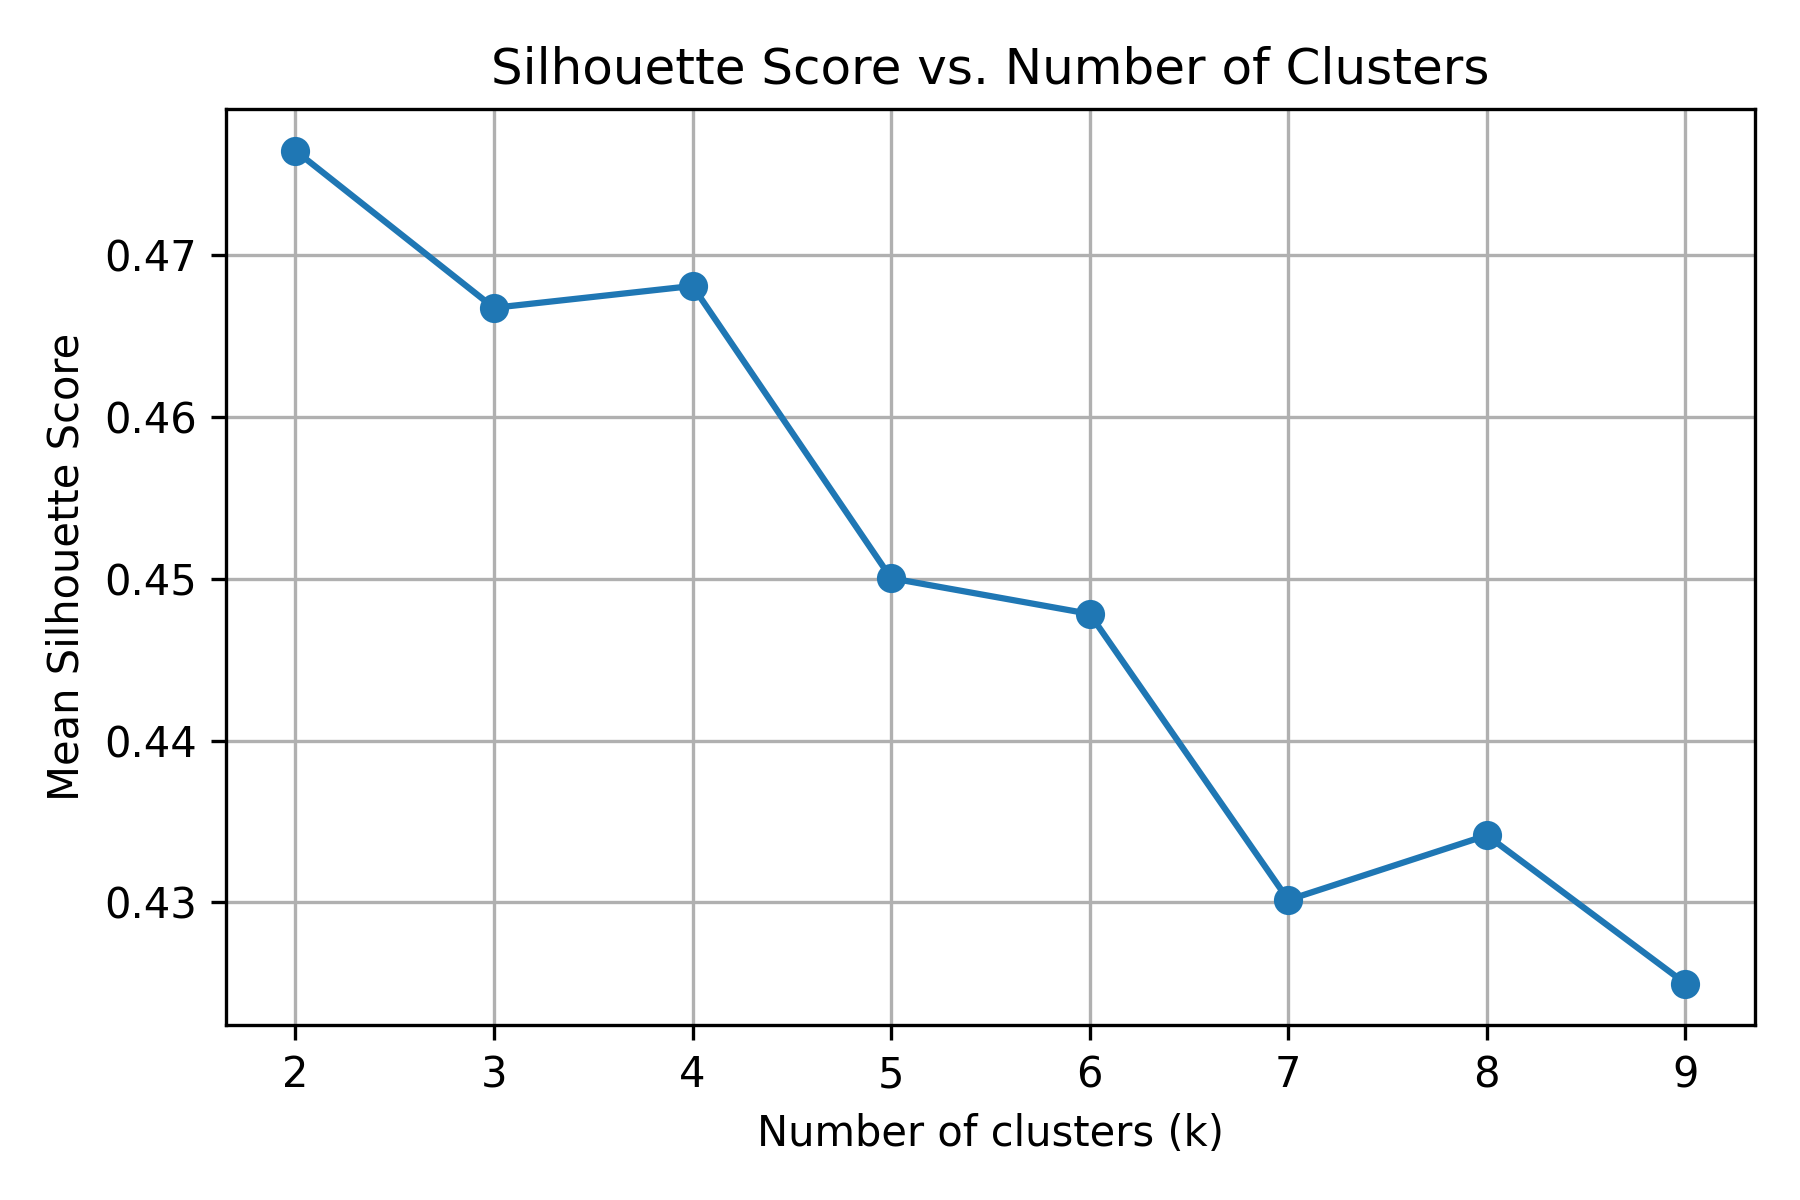
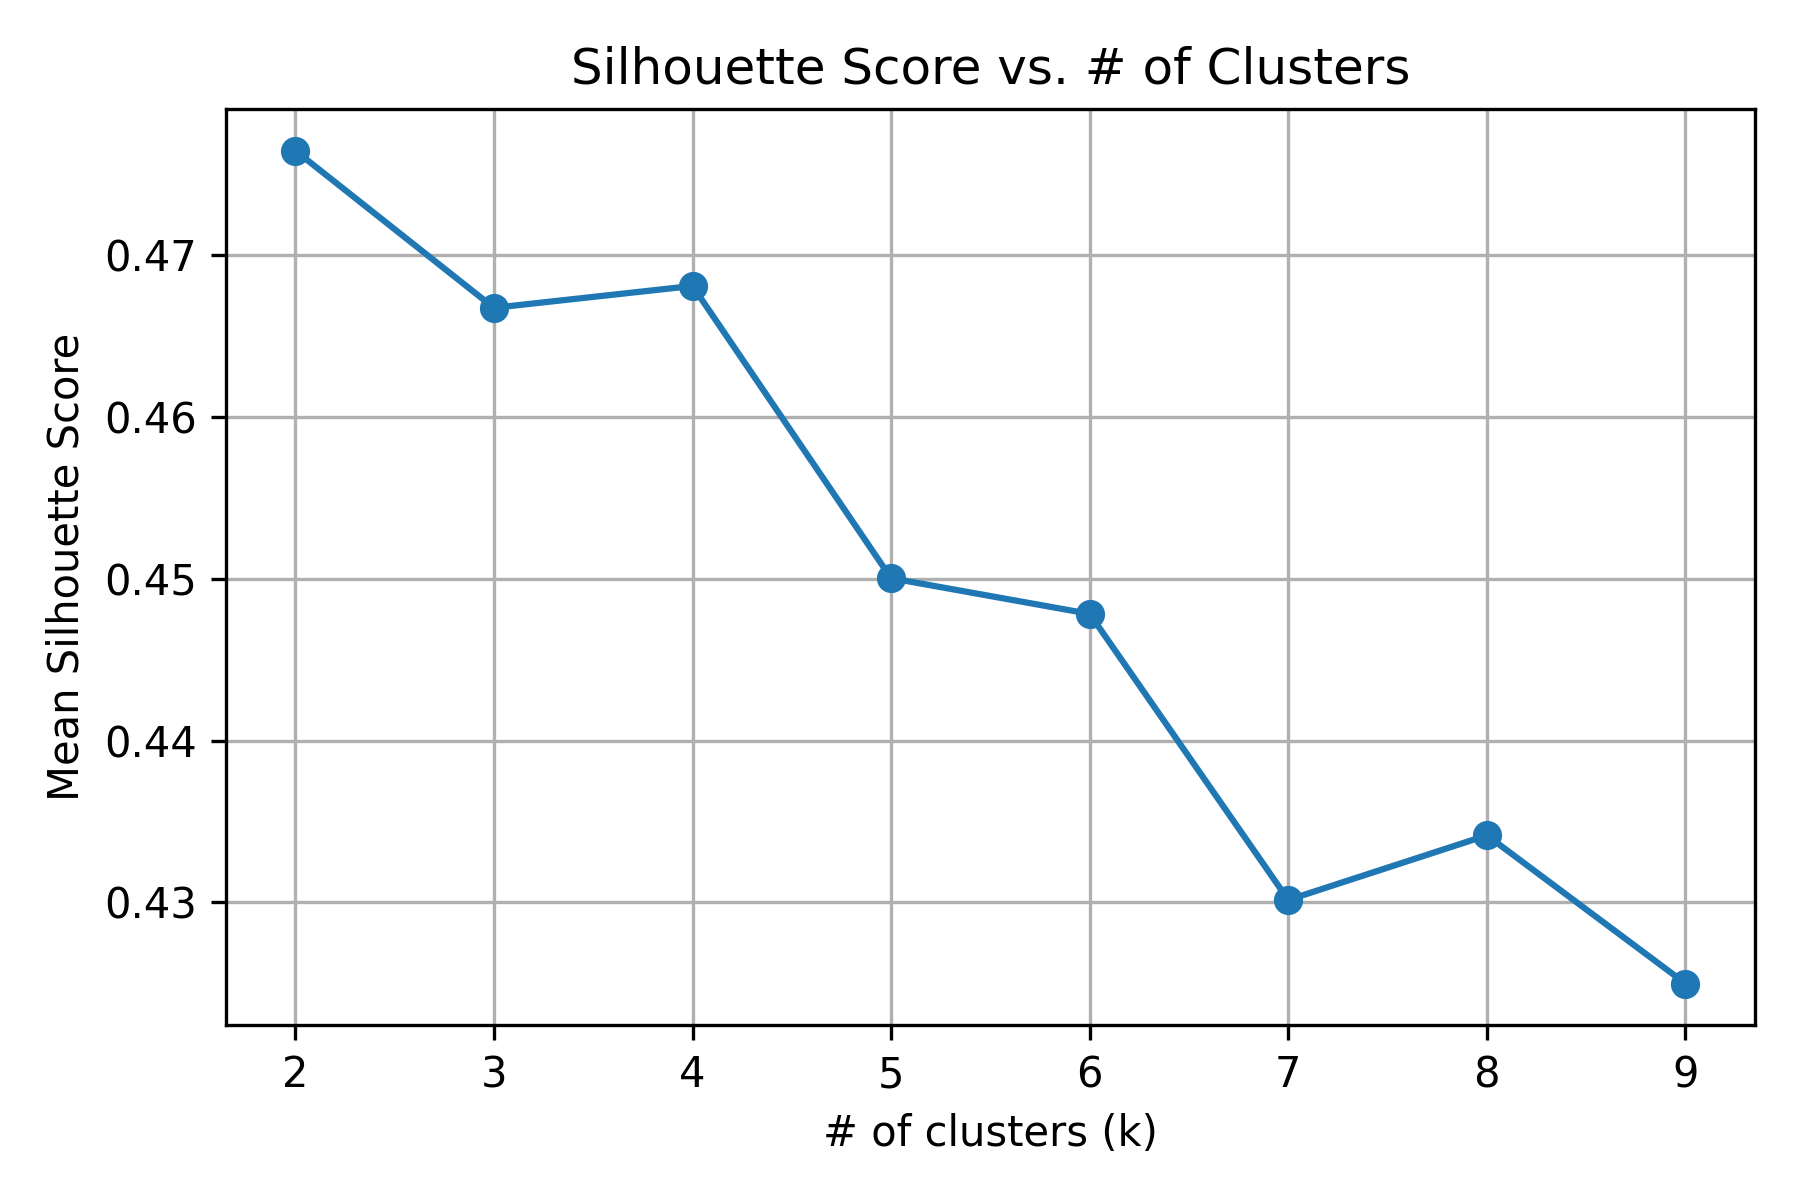
added gap and stat

Changed region(s): [[0.28, 0.0308, 0.84, 0.0925], [0.4044, 0.925, 0.6844, 0.9558]]

diff --git a/main.py b/main.py
@@ -17,6 +17,7 @@ down to only the principal components that explain most of the variation
 """
 from sklearn.decomposition import PCA
 
+from tqdm import tqdm
 
 """
 Silhouette score
@@ -40,7 +41,7 @@ results_dir = Path("Results")
 results_dir.mkdir(exist_ok=True)
 
 # set global k val
-k_val = 2
+k_val = 3
 
 df = pd.read_csv("OlsenData_TableS6.csv")
 
@@ -157,9 +158,10 @@ Validation via silhouette and gap
 # initialize list
 silhouette_scores = []
 
-# define k range
+# define k range for cluster testing
 K_range = range(2, 10)
 
+# compute score and add to list
 for k in K_range:
     kmeans = KMeans(n_clusters=k, n_init=10, random_state=42)
     labels = kmeans.fit_predict(Z)
@@ -168,8 +170,8 @@ for k in K_range:
 
 plt.figure(figsize=(6, 4))
 plt.plot(K_range, silhouette_scores, marker="o")
-plt.title("Silhouette Score vs. Number of Clusters")
-plt.xlabel("Number of clusters (k)")
+plt.title("Silhouette Score vs. # of Clusters")
+plt.xlabel("# of clusters (k)")
 plt.ylabel("Mean Silhouette Score")
 plt.grid(True)
 plt.tight_layout()
@@ -179,3 +181,63 @@ plt.close()
 # print best k
 best_k_sillhouette = K_range[np.argmax(silhouette_scores)]
 print(f"optimal k by silhouette: ", {best_k_sillhouette})
+
+"""
+
+Increasing number of clusters reduces the within cluster sum of squared distances, referred tp as
+intertia. If inertia is used as a metric, the pitfall of increasing clusters
+is inevitable. 
+
+The gap statistic aims to fix this by measuring how much better the clustering is than
+what would be expected from random noise.
+
+If the data has real clusters, the inertia will be much lower than random data with no
+structure. If adding more cluseters doesnt imrpove much, beyond what random noise would,
+the k needs to be lowered.
+
+A gap is the difference betwwen the expected log(Wk) from a reference dataset
+and the observed log(Wk) from the actual dataset. 
+
+Both Wk values represent within cluster disperson, applied to the actual and random
+datasets, respectively
+
+The optimal number of clusters, k is the smallest k such that the Gap(k) >= Gap(k + 1) - s(k+1)
+where s(k+1) is the standard deviation of the simulated gap values that adjusts for simulation 
+variability in the reference datasets
+
+Here, we pick the k with the largest gap value since that represents a large difference
+between our actual data and random noise.
+"""
+
+
+def gap_stat(data, refs=10, max_k=10):
+    gaps = np.zeros(max_k - 1)
+    for k in tqdm(range(1, max_k), desc="computing gap stat"):
+        km = KMeans(n_clusters=k_val, n_init=10, random_state=42)
+        km.fit(data)
+        disp = np.log(km.inertia_)
+
+        ref_disps = np.zeros(refs)
+        for i in range(refs):
+            random_ref = np.random.random_sample(size=data.shape)
+            km_ref = KMeans(n_clusters=k_val, n_init=10, random_state=42)
+            km_ref.fit(random_ref)
+            ref_disps[i] = np.log(km_ref.inertia_)
+        # computes the gaps for each k
+        gaps[k - 1] = np.mean(ref_disps) - disp
+    return gaps
+
+
+gaps = gap_stat(Z, refs=10, max_k=10)
+plt.figure(figsize=(6, 4))
+plt.plot(range(1, 10), gaps, marker="o")
+plt.title("Gap Stat vs. # of Clusters")
+plt.xlabel("# of clusters (k)")
+plt.ylabel("Gap Value")
+plt.grid(True)
+plt.tight_layout()
+plt.savefig(results_dir / f"gap_stat_k_{k_val}.png", dpi=300)
+plt.close()
+
+best_k_gap = np.argmax(gaps) + 1
+print(f"optimal k by gap: {best_k_gap}")

diff --git a/ReadMe.md b/ReadMe.md
@@ -175,6 +175,7 @@ tSNE colored by cluster displays separation via three arc like clusters.
 ## Validation of Clustering
 
 ![Silhouette Scores](Results/silhouette_scores_k_3.png)
+![Gap Statistic](Results/gap_stat_k_3.png)
 
 ## Citations
 
